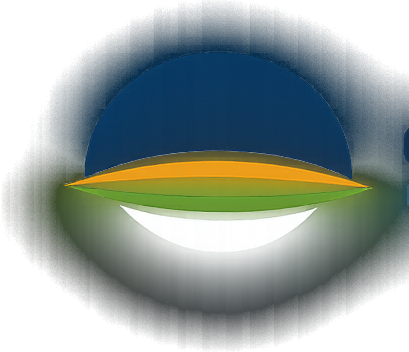
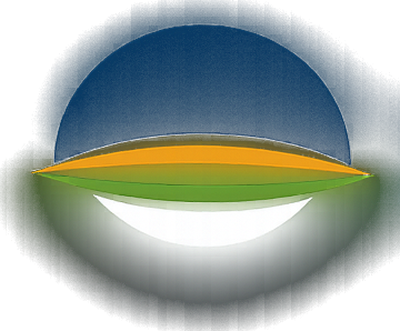
auto-commit for a42e42ce-716e-42d7-9ed4-5ce21cca8f72

diff --git a/app/page.js b/app/page.js
@@ -179,29 +179,27 @@ const PARTNERS = [
 
 function Logo({ scrolled }) {
   return (
-    <a href="#home" className="flex items-center gap-3 lg:gap-3.5 group shrink-0" aria-label="Global Sky Group">
-      {/* Icon mark — preserves exact original proportions */}
-      <div className="relative h-12 w-12 sm:h-[52px] sm:w-[52px] lg:h-[58px] lg:w-[58px] shrink-0 flex items-center justify-center">
-        <img
-          src="/gsg-icon.png"
-          alt=""
-          className="h-full w-full object-contain drop-shadow-[0_2px_8px_rgba(0,0,0,0.15)]"
-          draggable="false"
-        />
-      </div>
+    <a href="#home" className="flex items-center gap-3.5 lg:gap-4 group shrink-0" aria-label="Global Sky Group">
+      {/* Icon mark — sharp, no glow, original proportions preserved */}
+      <img
+        src="/gsg-icon.png"
+        alt=""
+        className="h-11 sm:h-12 lg:h-[54px] w-auto object-contain shrink-0"
+        draggable="false"
+      />
 
-      {/* Wordmark — typeset to match logo's brand style (bold sans-serif) */}
+      {/* Wordmark — Sora Bold (closest to Adecion) */}
       <div className="flex flex-col leading-none">
         <span
-          className={`font-sans font-extrabold tracking-[0.06em] text-[15px] sm:text-[17px] lg:text-[19px] transition-colors duration-300 ${
+          className={`font-brand font-extrabold tracking-[0.04em] text-[15px] sm:text-[17px] lg:text-[18.5px] transition-colors duration-300 whitespace-nowrap ${
             scrolled ? 'text-[#0B3D7C]' : 'text-white'
           }`}
         >
           GLOBAL SKY GROUP
         </span>
         <span
-          className={`mt-[5px] font-sans font-medium italic text-[10px] sm:text-[11px] lg:text-[11.5px] tracking-tight transition-colors duration-300 ${
-            scrolled ? 'text-slate-500' : 'text-white/80'
+          className={`mt-[6px] font-sans font-medium italic text-[10px] sm:text-[10.5px] lg:text-[11px] tracking-tight transition-colors duration-300 whitespace-nowrap ${
+            scrolled ? 'text-slate-500' : 'text-white/75'
           }`}
         >
           Indian at heart. Global in mind.
@@ -292,17 +290,17 @@ function Navbar() {
         <div className="container flex items-center justify-between gap-4">
           <Logo scrolled={scrolled} />
           <DesktopNav scrolled={scrolled} />
-          <div className="hidden lg:flex items-center gap-3 xl:gap-4">
+          <div className="hidden lg:flex items-center gap-3 xl:gap-5">
             <a
               href="tel:[phone redacted]"
-              className={`flex items-center gap-2 text-sm font-medium transition ${scrolled ? 'text-slate-700' : 'text-white'}`}
+              className={`flex items-center gap-2.5 text-sm font-medium transition ${scrolled ? 'text-slate-700' : 'text-white'}`}
             >
-              <div className={`w-9 h-9 rounded-full flex items-center justify-center ${scrolled ? 'bg-blue-50 text-brand-blue' : 'bg-white/15 text-white'}`}>
+              <div className={`w-9 h-9 rounded-full flex items-center justify-center transition ${scrolled ? 'bg-blue-50 text-brand-blue' : 'bg-white/15 text-white ring-1 ring-white/15'}`}>
                 <Phone className="w-4 h-4" />
               </div>
-              <span className="hidden xl:inline whitespace-nowrap">[phone redacted]</span>
+              <span className="hidden xl:inline whitespace-nowrap font-semibold tracking-tight">[phone redacted]</span>
             </a>
-            <Button className="bg-brand-orange hover:bg-brand-orange-dark text-white font-semibold rounded-full px-4 xl:px-5 text-[13px] xl:text-sm shadow-soft hover:shadow-premium transition-all whitespace-nowrap">
+            <Button className="bg-brand-orange hover:bg-brand-orange-dark text-white font-semibold rounded-full h-11 px-5 xl:px-6 text-[13px] xl:text-sm shadow-soft hover:shadow-premium transition-all whitespace-nowrap">
               Book Consultation
             </Button>
           </div>
@@ -424,7 +422,7 @@ function Hero() {
           initial={{ opacity: 0, y: 30 }}
           animate={{ opacity: 1, y: 0 }}
           transition={{ duration: 0.8, ease: 'easeOut' }}
-          className="max-w-4xl"
+          className="max-w-[58rem] xl:max-w-[64rem]"
         >
           <motion.div
             initial={{ opacity: 0, y: 20 }}
@@ -440,12 +438,12 @@ function Hero() {
             initial={{ opacity: 0, y: 20 }}
             animate={{ opacity: 1, y: 0 }}
             transition={{ delay: 0.35, duration: 0.7 }}
-            className="font-display text-white text-4xl sm:text-5xl md:text-6xl lg:text-7xl xl:text-[5.2rem] font-bold leading-[1.05] mb-5"
+            className="font-brand text-white text-[2.25rem] sm:text-5xl md:text-[3.75rem] lg:text-[4rem] xl:text-[4.5rem] font-extrabold leading-[1.04] tracking-[-0.02em] mb-5"
           >
             GLOBAL <span className="text-brand-orange">MOBILITY</span>
             <br />
-            <span className="text-white">
-              EDUCATION <span className="text-brand-orange">•</span> VISA <span className="text-brand-orange">•</span> TRAVEL
+            <span className="whitespace-nowrap">
+              EDUCATION <span className="text-brand-orange">·</span> VISA <span className="text-brand-orange">·</span> TRAVEL
             </span>
           </motion.h1>
 
@@ -715,7 +713,7 @@ function Destinations() {
                 <img
                   src={d.image}
                   alt={d.name}
-                  className="absolute inset-0 w-full h-full object-cover group-hover:scale-110 transition-transform duration-[1200ms]"
+                  className="absolute inset-0 w-full h-full object-cover group-hover:scale-110 transition-transform duration-1000"
                 />
                 <div className="absolute inset-0 bg-gradient-to-t from-slate-900/95 via-slate-900/30 to-slate-900/0" />
                 <div className="absolute inset-0 bg-gradient-to-br from-brand-blue/0 to-brand-blue/30 opacity-0 group-hover:opacity-100 transition-opacity duration-500" />
@@ -1058,7 +1056,7 @@ function Footer() {
                 draggable="false"
               />
               <div className="flex flex-col leading-none">
-                <span className="font-sans font-extrabold tracking-[0.06em] text-[19px] text-white">
+                <span className="font-brand font-extrabold tracking-[0.04em] text-[18px] text-white">
                   GLOBAL SKY GROUP
                 </span>
                 <span className="mt-1.5 font-sans font-medium italic text-[11.5px] tracking-tight text-white/70">

diff --git a/app/layout.js b/app/layout.js
@@ -1,5 +1,5 @@
 import './globals.css';
-import { Inter, Playfair_Display } from 'next/font/google';
+import { Inter, Playfair_Display, Sora } from 'next/font/google';
 
 const inter = Inter({
   subsets: ['latin'],
@@ -15,6 +15,13 @@ const playfair = Playfair_Display({
   weight: ['400', '500', '600', '700', '800', '900'],
 });
 
+const sora = Sora({
+  subsets: ['latin'],
+  variable: '--font-sora',
+  display: 'swap',
+  weight: ['600', '700', '800'],
+});
+
 export const metadata = {
   title: 'Global Sky Group — Education • Visa • Travel',
   description:
@@ -23,7 +30,7 @@ export const metadata = {
 
 export default function RootLayout({ children }) {
   return (
-    <html lang="en" className={`${inter.variable} ${playfair.variable}`}>
+    <html lang="en" className={`${inter.variable} ${playfair.variable} ${sora.variable}`}>
       <body className="min-h-screen bg-background text-foreground antialiased">
         {children}
       </body>

diff --git a/tailwind.config.js b/tailwind.config.js
@@ -18,6 +18,7 @@ module.exports = {
       fontFamily: {
         display: ['var(--font-playfair)', 'Playfair Display', 'serif'],
         sans: ['var(--font-inter)', 'Inter', 'system-ui', 'sans-serif'],
+        brand: ['var(--font-sora)', 'Sora', 'system-ui', 'sans-serif'],
       },
       colors: {
         border: 'hsl(var(--border))',